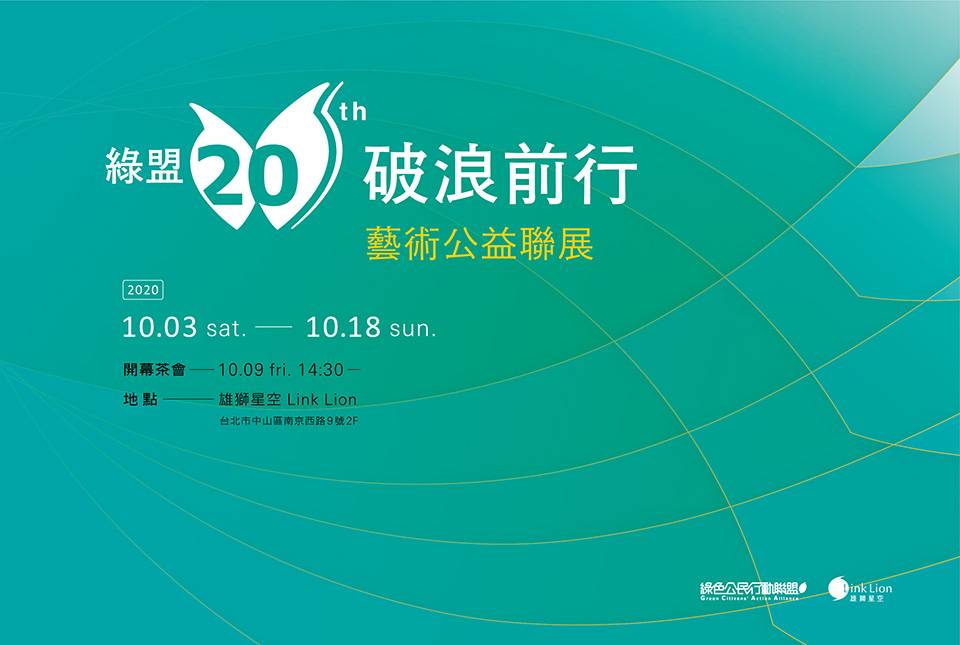
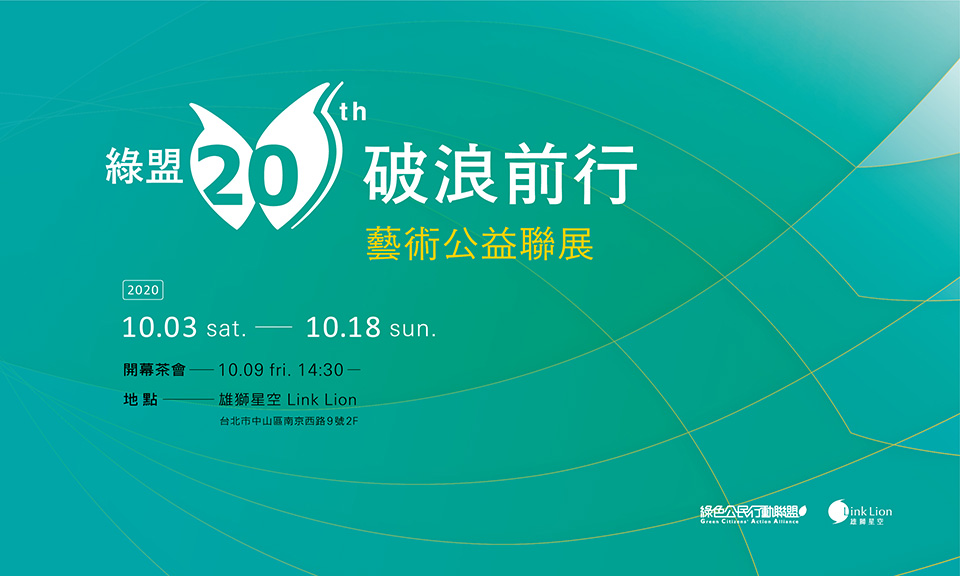
Update og image

diff --git a/index.html b/index.html
@@ -8,7 +8,7 @@
 	<meta name="description" content="本聯展由15位關心環境生態的藝術創作者參與，透過繪畫、版畫、雕塑、攝影等創作手法詮釋人與自然的連結、與環境為善的關懷。展覽義賣所得將贈予台灣在地環境保護團體─綠色公民行動聯盟，用於推動非核減煤、能源轉型及環境汙染治理監督的工作。今年是他們成立第20個年頭，帶著公民行動、永續社會的理念，推動改變的腳步不會止息。">
     <meta name="keywords" content="綠盟 透明足跡 義賣 聯展 藝術 藝術家 公益">
     <meta name="author" content="綠色公民行動聯盟 GCAA">
-    <meta property="og:image" content="https://gcaa.github.io/img/banner.jpg">
+    <meta property="og:image" content="https://gcaa.github.io/img/banner.jpg?v=2">
 
     <link rel="shortcut icon" href="img/favicon.ico" type="image/x-icon">
 	<link rel="icon" href="img/favicon.ico" type="image/x-icon">
